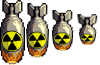
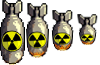
Changed nuke animation

Changed region(s): [[0.0, 0.7385, 0.24, 0.9846], [0.27, 0.7077, 0.48, 0.8308]]

diff --git a/source/core/src/main/com/csse3200/game/components/Weapons/SpecWeapon/NukeController.java b/source/core/src/main/com/csse3200/game/components/Weapons/SpecWeapon/NukeController.java
@@ -81,7 +81,7 @@ public class NukeController extends WeaponControllerComponent {
     @Override
     protected void move() {
      var pos = entity.getCenterPosition();
-     entity.setScale(entity.getScale().sub(0.006f, 0.006f));
+     entity.setScale(entity.getScale().sub(0.000f, 0.000f).scl(0.996f));
      entity.setPosition(pos.mulAdd(entity.getScale(), -0.5f));
         return;
     }
